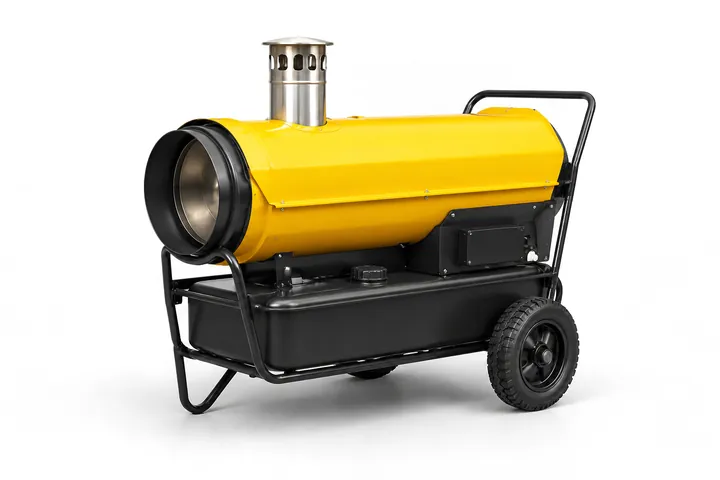
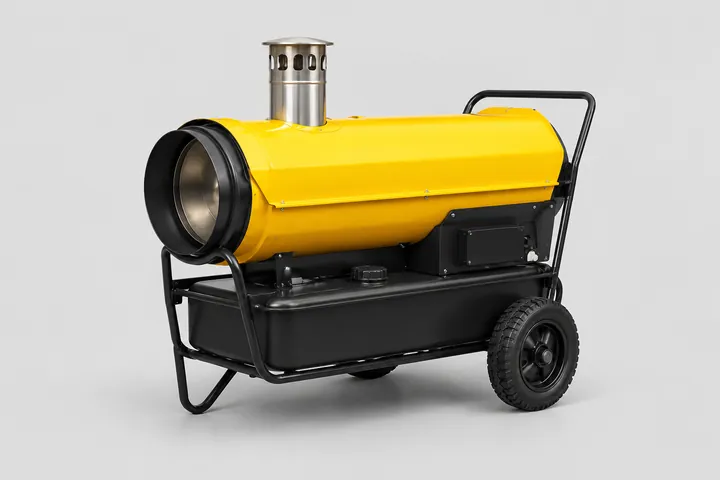
Тенты на иконках белые, фон снова серый

diff --git a/index.html b/index.html
@@ -1,4 +1,4 @@
-<!doctype html><html lang="ru"><head><meta charset="utf-8"><meta name="robots" content="noindex,nofollow"><meta name="viewport" content="width=device-width,initial-scale=1"><title>Тепляк строительный — превью</title><link rel="stylesheet" href="css/base.css?v=6af70472"><link rel="stylesheet" href="css/blocks.css?v=6af70472"><link rel="stylesheet" href="css/teplyak.css?v=6afae5d0"><link rel="stylesheet" href="css/_preview-only.css?v=6af70472"></head><body>
+<!doctype html><html lang="ru"><head><meta charset="utf-8"><meta name="robots" content="noindex,nofollow"><meta name="viewport" content="width=device-width,initial-scale=1"><title>Тепляк строительный — превью</title><link rel="stylesheet" href="css/base.css?v=6af70472"><link rel="stylesheet" href="css/blocks.css?v=6af70472"><link rel="stylesheet" href="css/teplyak.css?v=6afae630"><link rel="stylesheet" href="css/_preview-only.css?v=6af70472"></head><body>
 <div class="tpl-root">
 
 <div class="tpl-top">

diff --git a/css/teplyak.css b/css/teplyak.css
@@ -357,7 +357,7 @@
 .tpl-heat{display:grid;grid-template-columns:repeat(4,1fr);gap:var(--tpl-grid-gap);margin-top:40px}
 .tpl-root .tpl-heat__item{
   display:flex;flex-direction:column;border-radius:var(--tpl-radius-lg);overflow:hidden;
-  border:var(--tpl-border);background:var(--tpl-surface-card);color:var(--tpl-ink);transition:transform .2s ease;
+  background:#E6E6E6;color:var(--tpl-ink);transition:transform .2s ease;
 }
 .tpl-root .tpl-heat__item img{width:100%;height:auto;aspect-ratio:3/2;object-fit:cover}
 .tpl-heat__item b{padding:0 18px;font-size:16px;line-height:22px;font-weight:var(--tpl-fw-medium)}
